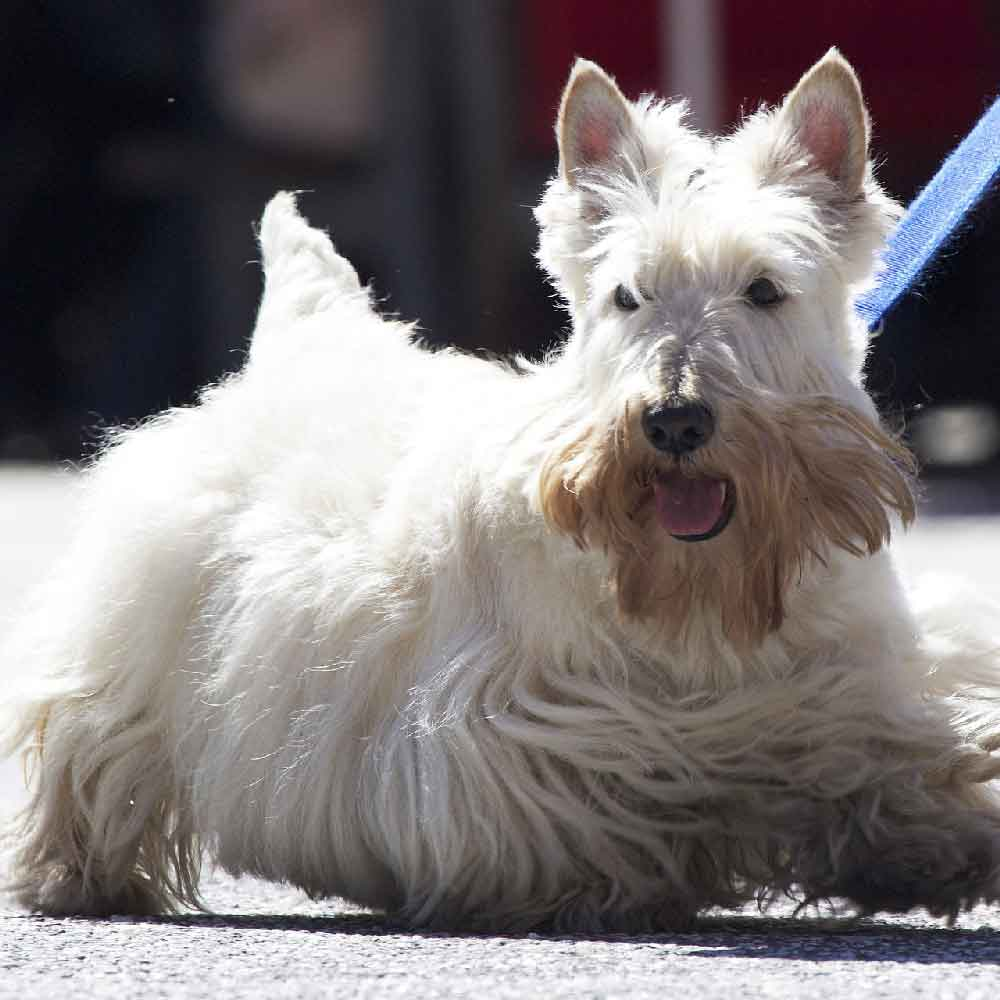
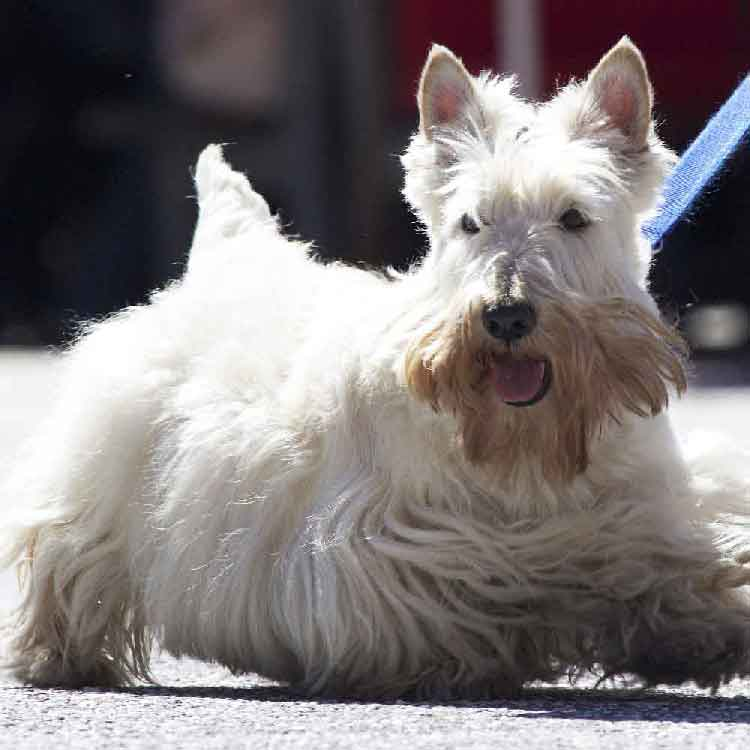
Resize images and add embed classes

diff --git a/rescues.html b/rescues.html
@@ -68,8 +68,8 @@
         <h2 class="pad-t-2">Current Available Rescues</h2>
         <div class="grid">
           <div class="unit xs-1 m-1-2 l-1-3 relative available">
-            <div>
-              <img class="img-flex" src="images/adopt-me.jpg" alt="">
+            <div class="embed embed-1by1">
+              <img class="img-flex embed-item" src="images/adopt-me.jpg" alt="">
               <div class="overlay pin-c">
                 <div>
                   <h3 class="available-name push-0">Stella</h3>
@@ -87,8 +87,8 @@
             <img class="img-flex" src="images/crown-brown.svg" alt="">
           </div>
           <div class="unit xs-1 m-1-2 l-1-3 relative available">
-            <div>
-              <img class="img-flex" src="images/adopt-me-4.jpg" alt="">
+            <div class="embed embed-1by1">
+              <img class="img-flex embed-item" src="images/adopt-me-4.jpg" alt="">
               <div class="overlay pin-c">
                 <div>
                   <h3 class="available-name push-0">Fern</h3>
@@ -106,8 +106,8 @@
             <img class="img-flex" src="images/dog-outline-right.svg" alt="">
           </div>
           <div class="unit xs-1 m-1-2 l-1-3 relative available">
-            <div>
-              <img class="img-flex" src="images/adopt-me-2.jpg" alt="">
+            <div class="embed embed-1by1">
+              <img class="img-flex embed-item" src="images/adopt-me-2.jpg" alt="">
               <div class="overlay pin-c">
                 <div>
                   <h3 class="available-name push-0">Elliott</h3>
@@ -125,8 +125,8 @@
             <img class="img-flex" src="images/dog-outline-left.svg" alt="">
           </div>
           <div class="unit xs-1 m-1-2 l-1-3 relative available">
-            <div>
-              <img class="img-flex" src="images/adopt-me-3.jpg" alt="">
+            <div class="embed embed-1by1">
+              <img class="img-flex embed-item" src="images/adopt-me-3.jpg" alt="">
               <div class="overlay pin-c">
                 <div>
                   <h3 class="available-name push-0">Sherlock</h3>
@@ -144,8 +144,8 @@
             <img class="img-flex" src="images/crown-brown.svg" alt="">
           </div>
           <div class="unit xs-1 m-1-2 l-1-3 relative available">
-            <div>
-              <img class="img-flex" src="images/adopt-me-5.jpg" alt="">
+            <div class="embed embed-1by1">
+              <img class="img-flex embed-item" src="images/adopt-me-5.jpg" alt="">
               <div class="overlay pin-c">
                 <div>
                   <h3 class="available-name push-0">Portia</h3>
@@ -163,8 +163,8 @@
             <img class="img-flex" src="images/dog-outline-right.svg" alt="">
           </div>
           <div class="unit xs-1 m-1-2 l-1-3 relative available">
-            <div>
-              <img class="img-flex" src="images/adopt-me-6.jpg" alt="">
+            <div class="embed embed-1by1">
+              <img class="img-flex embed-item" src="images/adopt-me-6.jpg" alt="">
               <div class="overlay pin-c">
                 <div>
                   <h3 class="available-name push-0">Dinsdale</h3>
@@ -197,8 +197,8 @@
             <h2>Former Rescue Success Stories</h2>
           </div>
           <div class="unit xs-1 m-1-2 l-1-3 relative available">
-            <div>
-              <img class="img-flex" src="images/success-1.jpg" alt="">
+            <div class="embed embed-1by1">
+              <img class="embed-item img-flex" src="images/success-1.jpg" alt="">
               <div class="overlay pin-c">
                 <div>
                   <h3 class="available-name push-0">Beatrice and Harry</h3>
@@ -211,8 +211,8 @@
             <img class="img-flex" src="images/crown-blue.svg" alt="">
           </div>
           <div class="unit xs-1 m-1-2 l-1-3 relative available">
-            <div>
-              <img class="img-flex" src="images/success-2.jpg" alt="">
+            <div class="embed embed-1by1">
+              <img class="embed-item img-flex" src="images/success-2.jpg" alt="">
               <div class="overlay pin-c">
                 <div>
                   <h3 class="available-name push-0">The Richard's and Simon</h3>
@@ -239,7 +239,7 @@
         </div>
       </div>
       <div class="copyright pad-t-1-2 pad-b-1-2">
-        <p class="micro wrapper gutter-wrap push-0">Copyright © 2004 - 2015 Scottie Kingdom Rescue, Inc. All Rights Reserved.</p>
+        <p class="micro wrapper gutter-wrap push-0">Copyright © 2019 Scottie Kingdom Rescue, Inc. All Rights Reserved.</p>
       </div>
     </div>
   </footer>

diff --git a/adopt.html b/adopt.html
@@ -91,8 +91,8 @@
               <input id="dog-name" aria-label="Which dog?" required>
             </div>
             <div class="push gutter-1-2 unit xs-1">
-              <label class="push-1-2 not-bold" for="who-for">Who are you adopting the dog for?</label>
-              <input id="who-me">
+              <label class="push-1-2 not-bold" for="who-for">Who are you adopting the dog for? *</label>
+              <input id="who-me" aria-label="Who is the dog for?" required>
             </div>
             <fieldset class="push gutter-1-2 unit xs-1">
               <legend class="push-1-2 not-bold">Any visiting children?</legend>
@@ -290,9 +290,11 @@
         </div>
       </div>
     </article>
-    <div class="pad-t-2 pad-b-2 embed">
-      <img class="img-flex embed-item embed-1by1" src="images/crown-brown.svg" alt="">
-    </div>
+    <aside>
+      <div class="pad-t-2 pad-b-2 embed embed-1by1">
+        <img class="img-flex embed-item" src="images/crown-brown.svg" alt="">
+      </div>
+    </aside>
   </main>
   <footer role="contentinfo" id="footer">
     <div>
@@ -308,7 +310,7 @@
         </div>
       </div>
       <div class="copyright pad-t-1-2 pad-b-1-2">
-        <p class="micro wrapper gutter-wrap push-0">Copyright © 2004 - 2015 Scottie Kingdom Rescue, Inc. All Rights Reserved.</p>
+        <p class="micro wrapper gutter-wrap push-0">Copyright © 2019 Scottie Kingdom Rescue, Inc. All Rights Reserved.</p>
       </div>
     </div>
   </footer>

diff --git a/index.html b/index.html
@@ -73,13 +73,19 @@
         <div class="grid">
           <h2 class="unit xs-1 pad-t-2">Available for Adoption</h2>
           <div class="unit xs-1 s-1-2 m-1-3">
-            <img class="img-flex" src="images/adopt-me-3.jpg" alt="">
+            <div class="embed embed-1by1">
+              <img class="embed-item img-flex" src="images/adopt-me-3.jpg" alt="">
+            </div>
           </div>
           <div class="unit xs-1 s-0 m-1-3">
-            <img class="img-flex" src="images/crown-brown.svg" alt="">
+            <div class="embed embed-1by1">
+              <img class="embed-item img-flex" src="images/crown-brown.svg" alt="">
+            </div>
           </div>
           <div class="unit xs-1 s-1-2 m-1-3">
-            <img class="img-flex" src="images/adopt-me.jpg" alt="">
+            <div class="embed embed-1by1">
+              <img class="embed-item img-flex" src="images/adopt-me.jpg" alt="">
+            </div>
           </div>
         </div>
         <div class="grid pad-t-2 pad-b-2">
@@ -155,7 +161,7 @@
         </div>
       </div>
       <div class="copyright pad-t-1-2 pad-b-1-2">
-        <p class="micro wrapper gutter-wrap push-0">Copyright © 2004 - 2015 Scottie Kingdom Rescue, Inc. All Rights Reserved.</p>
+        <p class="micro wrapper gutter-wrap push-0">Copyright © 2019 Scottie Kingdom Rescue, Inc. All Rights Reserved.</p>
       </div>
     </div>
   </footer>

diff --git a/css/main.css b/css/main.css
@@ -44,7 +44,7 @@ nav a:hover {
 }
 
 .nav [type="checkbox"] + label::before {
-  display:none;
+  display: none;
 }
 
 .menutoggle {
